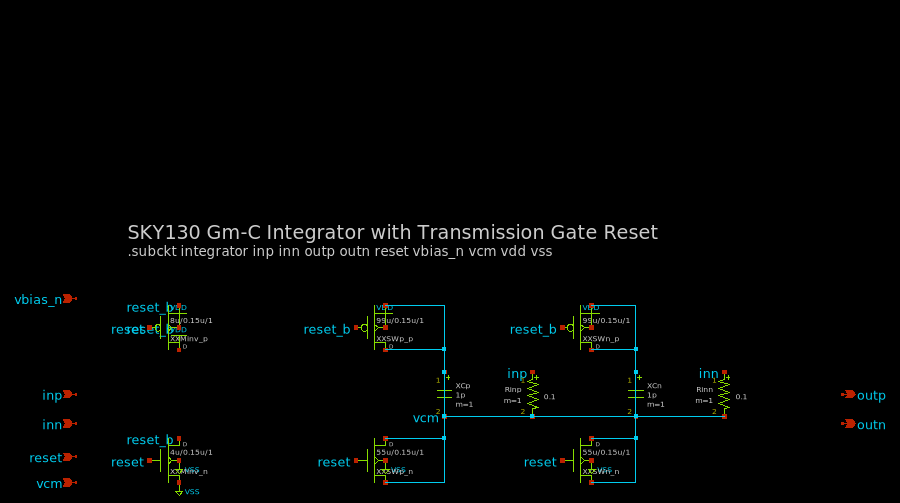
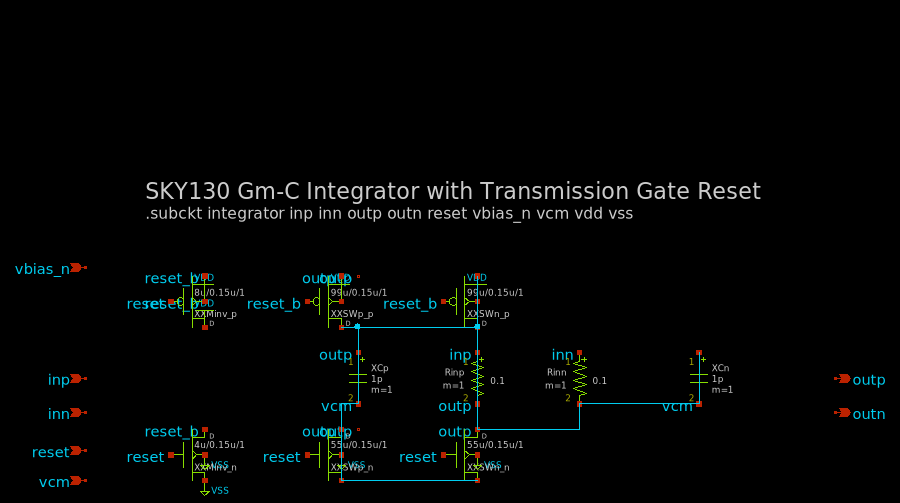
Tighter spacing for inverter/tgate blocks (160 instead of 280)
Single-column blocks like inverters and transmission gates now use
compact 160-unit spacing instead of H_SPACING+BLOCK_GAP.
Integrator layout significantly more compact.

All 0 crossings.

diff --git a/src/placer.py b/src/placer.py
@@ -570,7 +570,11 @@ def place_circuit(circuit: Circuit) -> PlacedCircuit:
         px = cur_x
         for block in p_blocks:
             _place_block(result, block, px, PMOS_Y)
-            px += H_SPACING + BLOCK_GAP
+            # Use tighter spacing for single-column blocks (inverter/tgate)
+            if block.type in ("inverter", "tgate"):
+                px += 160  # Compact spacing for single-column blocks
+            else:
+                px += H_SPACING + BLOCK_GAP
 
         # Place top NMOS blocks above bottom ones (between PMOS and NMOS bands)
         top_y = MID_Y  # Between PMOS and NMOS
